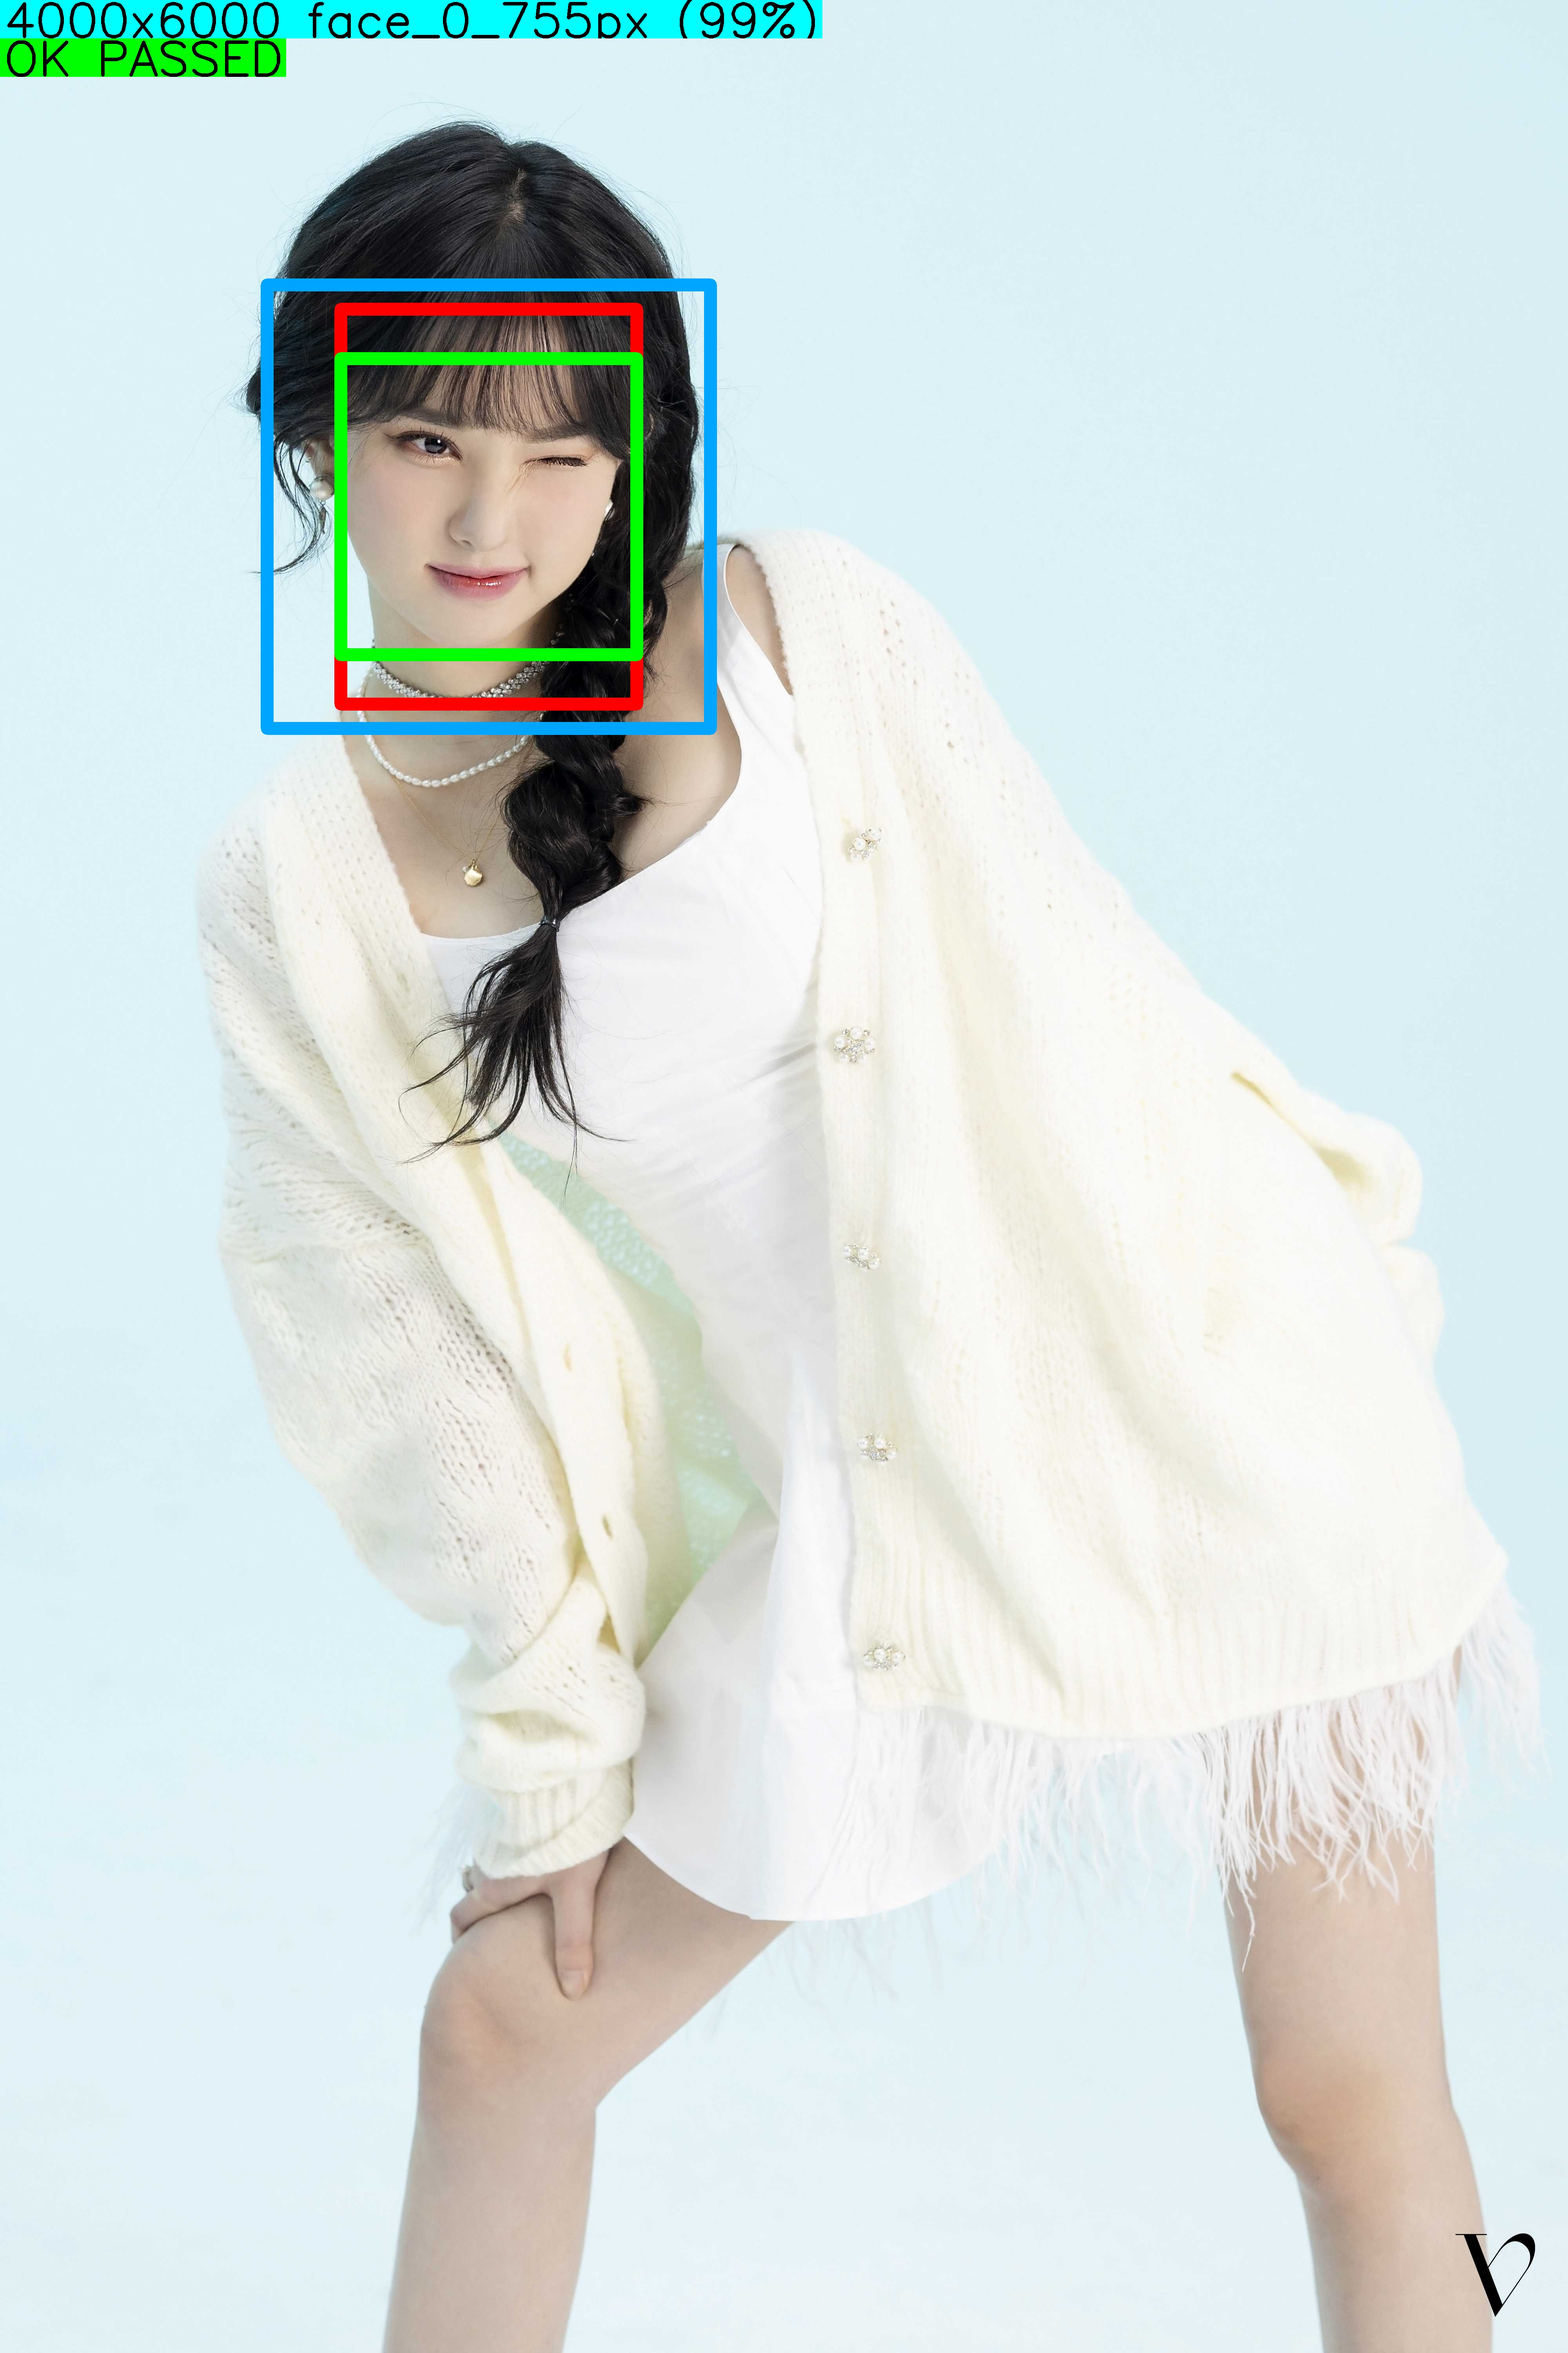
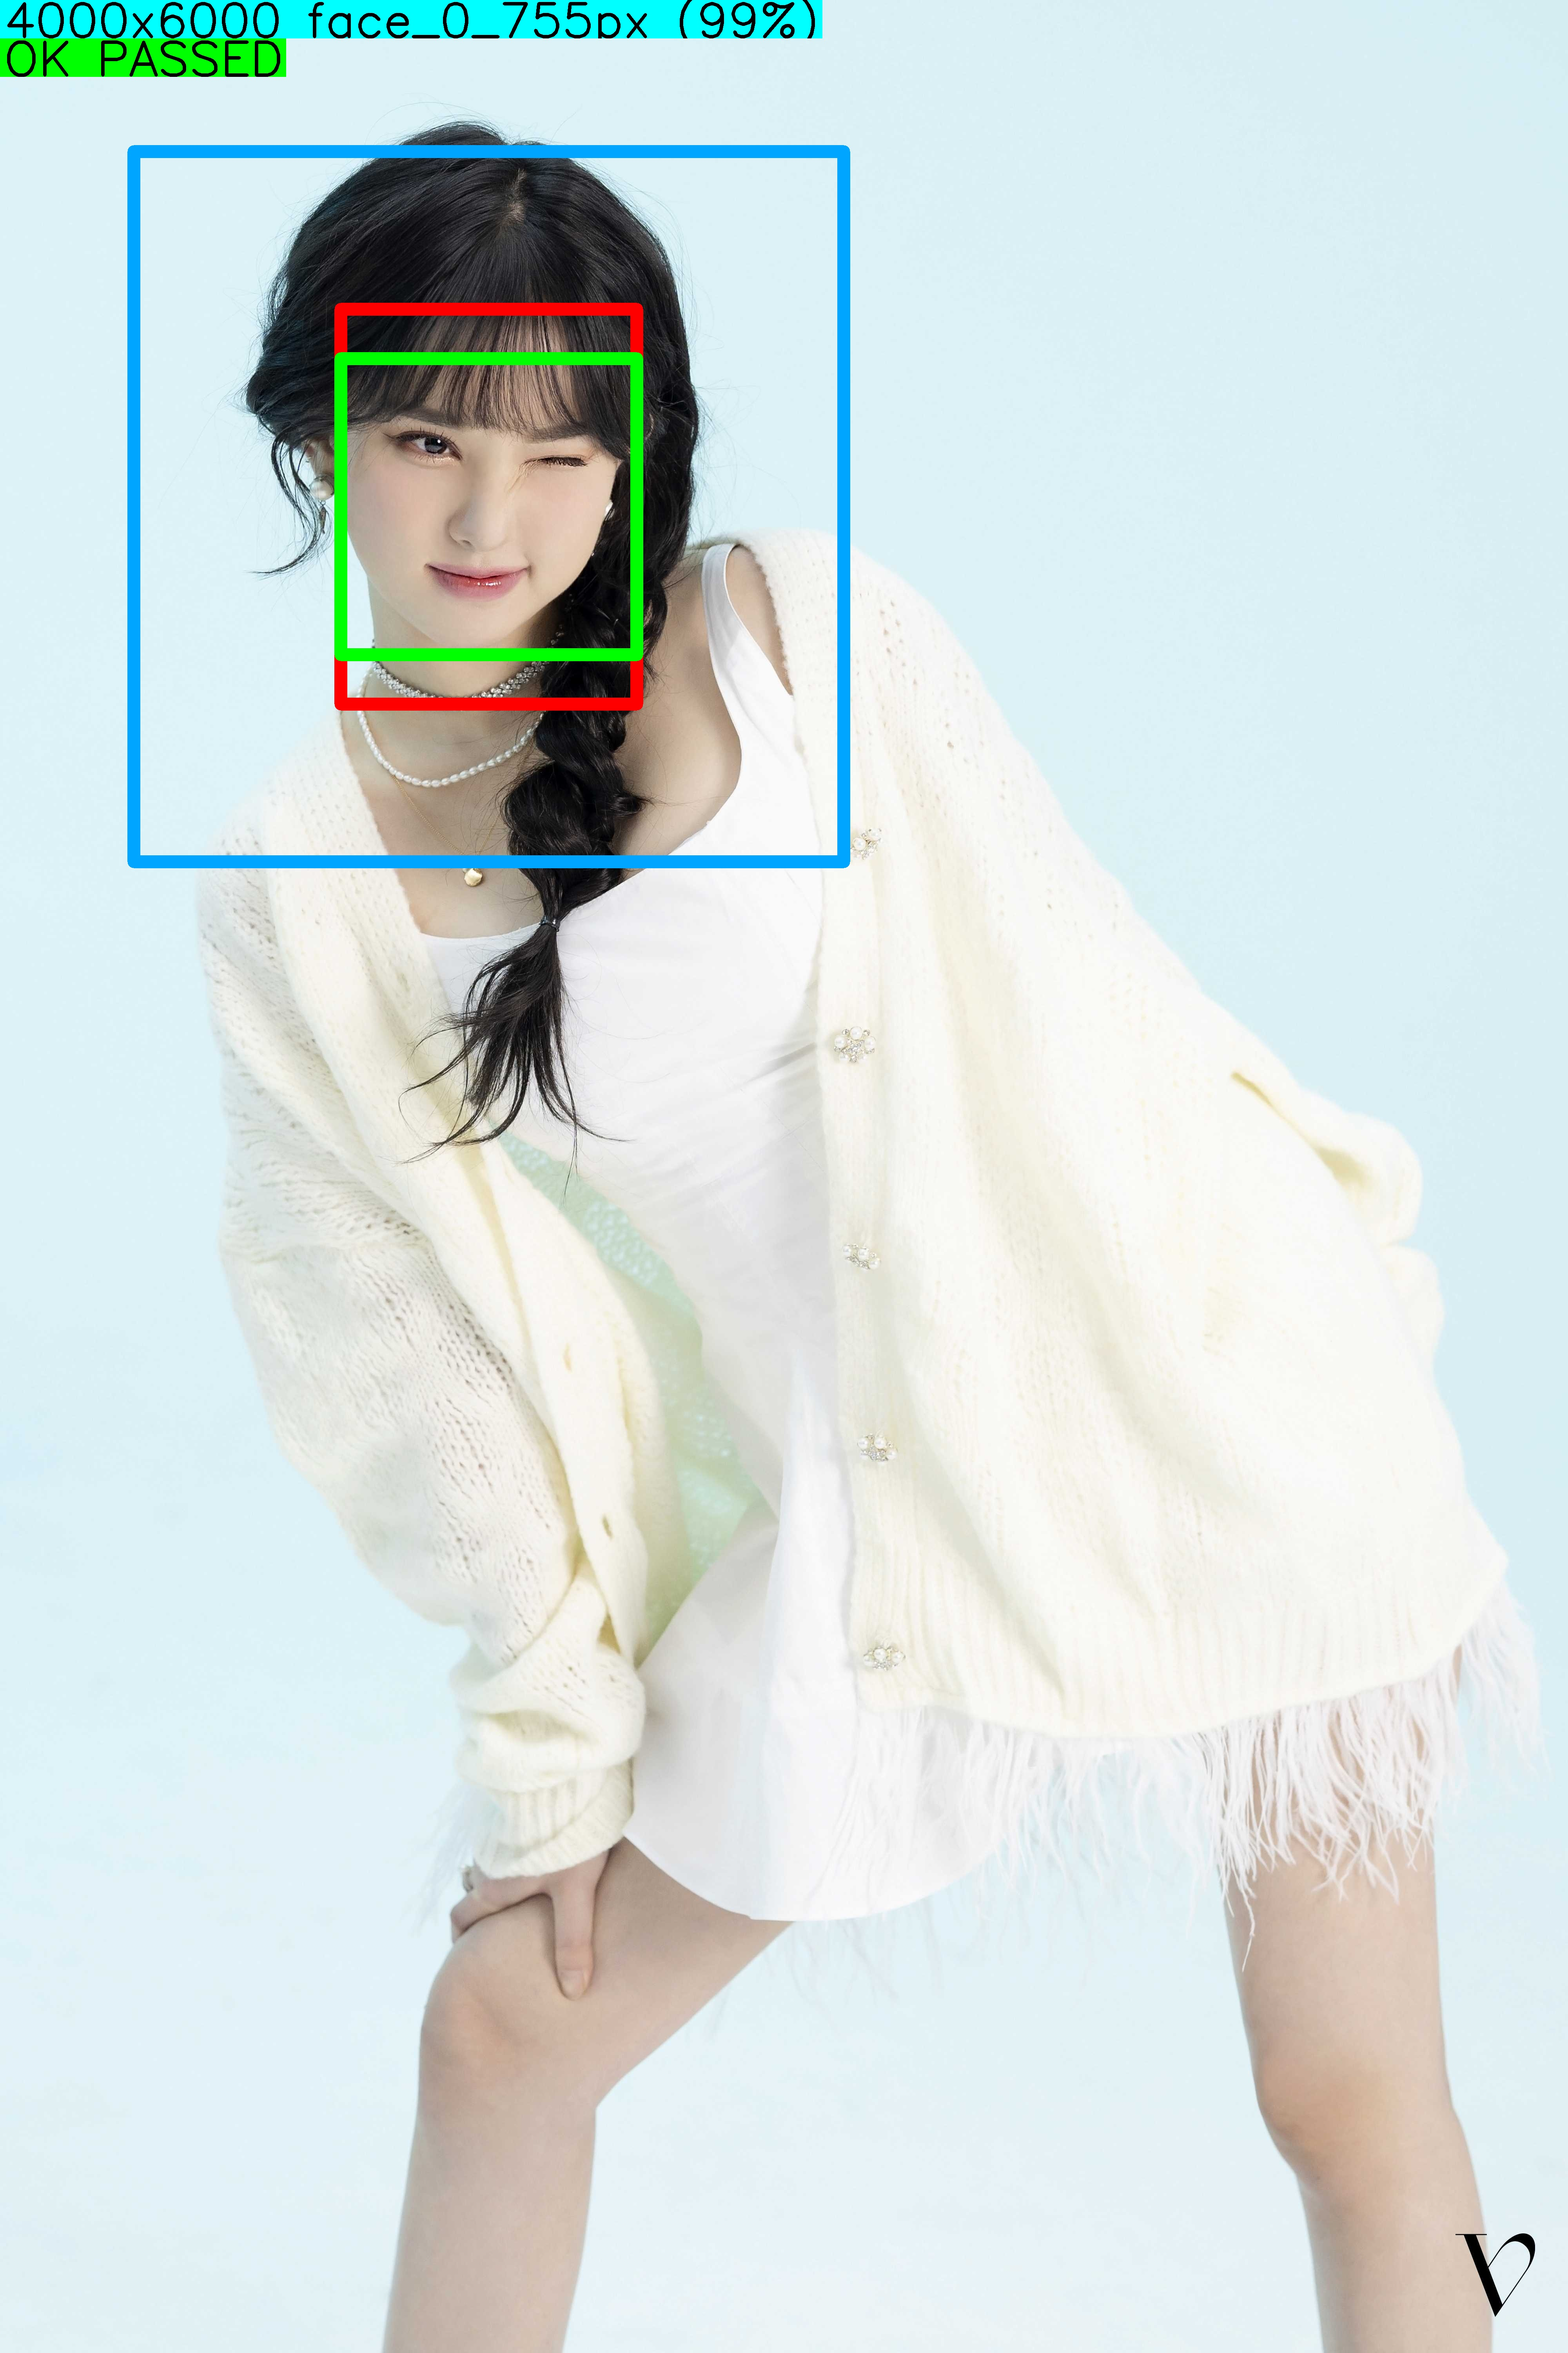
Change top and bot margin value of Option 2 Face to include shoulders

Changed region(s): [[0.0625, 0.0623, 0.5625, 0.374]]

diff --git a/variable.py b/variable.py
@@ -5,7 +5,7 @@ output_res = 1080
 preview_output_res = 256
 preview_debug_max_res = 640
 
-# Minimum face bounding box size (pixel)
+# Minimun face bounding box size (pixel)
 min_face_res = 96
 min_upperbody_res = 64
 min_fullbody_res = 32
@@ -18,6 +18,3 @@ debug_face_folder = "output/face_debug"
 output_fullbody_folder = "output/fullbody_cropped"
 debug_fullbody_folder = "output/fullbody_debug"
 error_folder = "output/error_images"
-
-# No deprecated NumPy types (np.int, np.float, etc.) or OpenCV constants used in this file.
-# All major NumPy/OpenCV compatibility changes are handled in image_processing.py.

diff --git a/user_input.py b/user_input.py
@@ -25,8 +25,8 @@ def select_option():
         output_folder = output_upperbody_folder
         croptype = 1
     elif option == "2":
-        top_margin_value = 0.25
-        bottom_margin_value = 0.25
+        top_margin_value = 0.7 #changed from 0.25 to 3.0 to inclue more space above head
+        bottom_margin_value = 0.7 # changed from 0.25 to include the shoulders of person
         debug_output = debug_face_folder
         output_folder = output_face_folder
         croptype = 2
